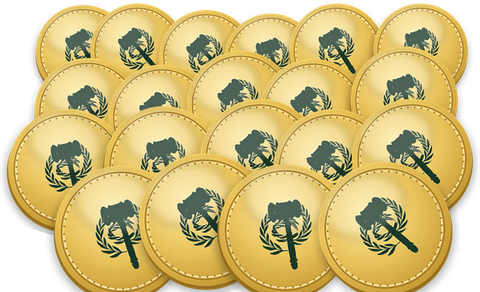
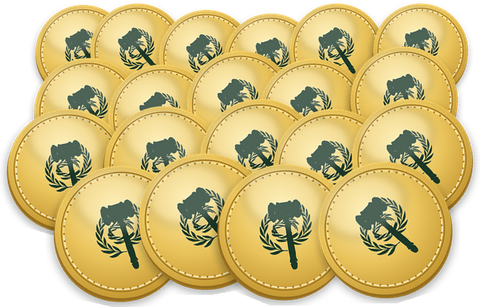
Unlimited token heap: redrawn on a taller canvas so the front row is no longer cut off

diff --git a/src/app/account/unlimited/page.tsx b/src/app/account/unlimited/page.tsx
@@ -789,7 +789,7 @@ export default function UnlimitedPage() {
           <picture style={{ display: 'block', lineHeight: 0 }}>
             <source srcSet="/credit-token-heap.webp" type="image/webp" />
             {/* eslint-disable-next-line @next/next/no-img-element */}
-            <img src="/credit-token-heap.png" alt="A heap of Gavelling credits" width={132} height={80} decoding="async" draggable={false} style={{ width: 132, height: 80, objectFit: 'contain', objectPosition: 'left center', display: 'block' }} />
+            <img src="/credit-token-heap.png" alt="A heap of Gavelling credits" width={132} height={84} decoding="async" draggable={false} style={{ width: 132, height: 84, objectFit: 'contain', objectPosition: 'left center', display: 'block' }} />
           </picture>
           <h2 className="font-black text-lg mt-4 mb-1" style={{ color: NEU.ink, fontFamily: OUTFIT }}>
             Gavelling Unlimited
